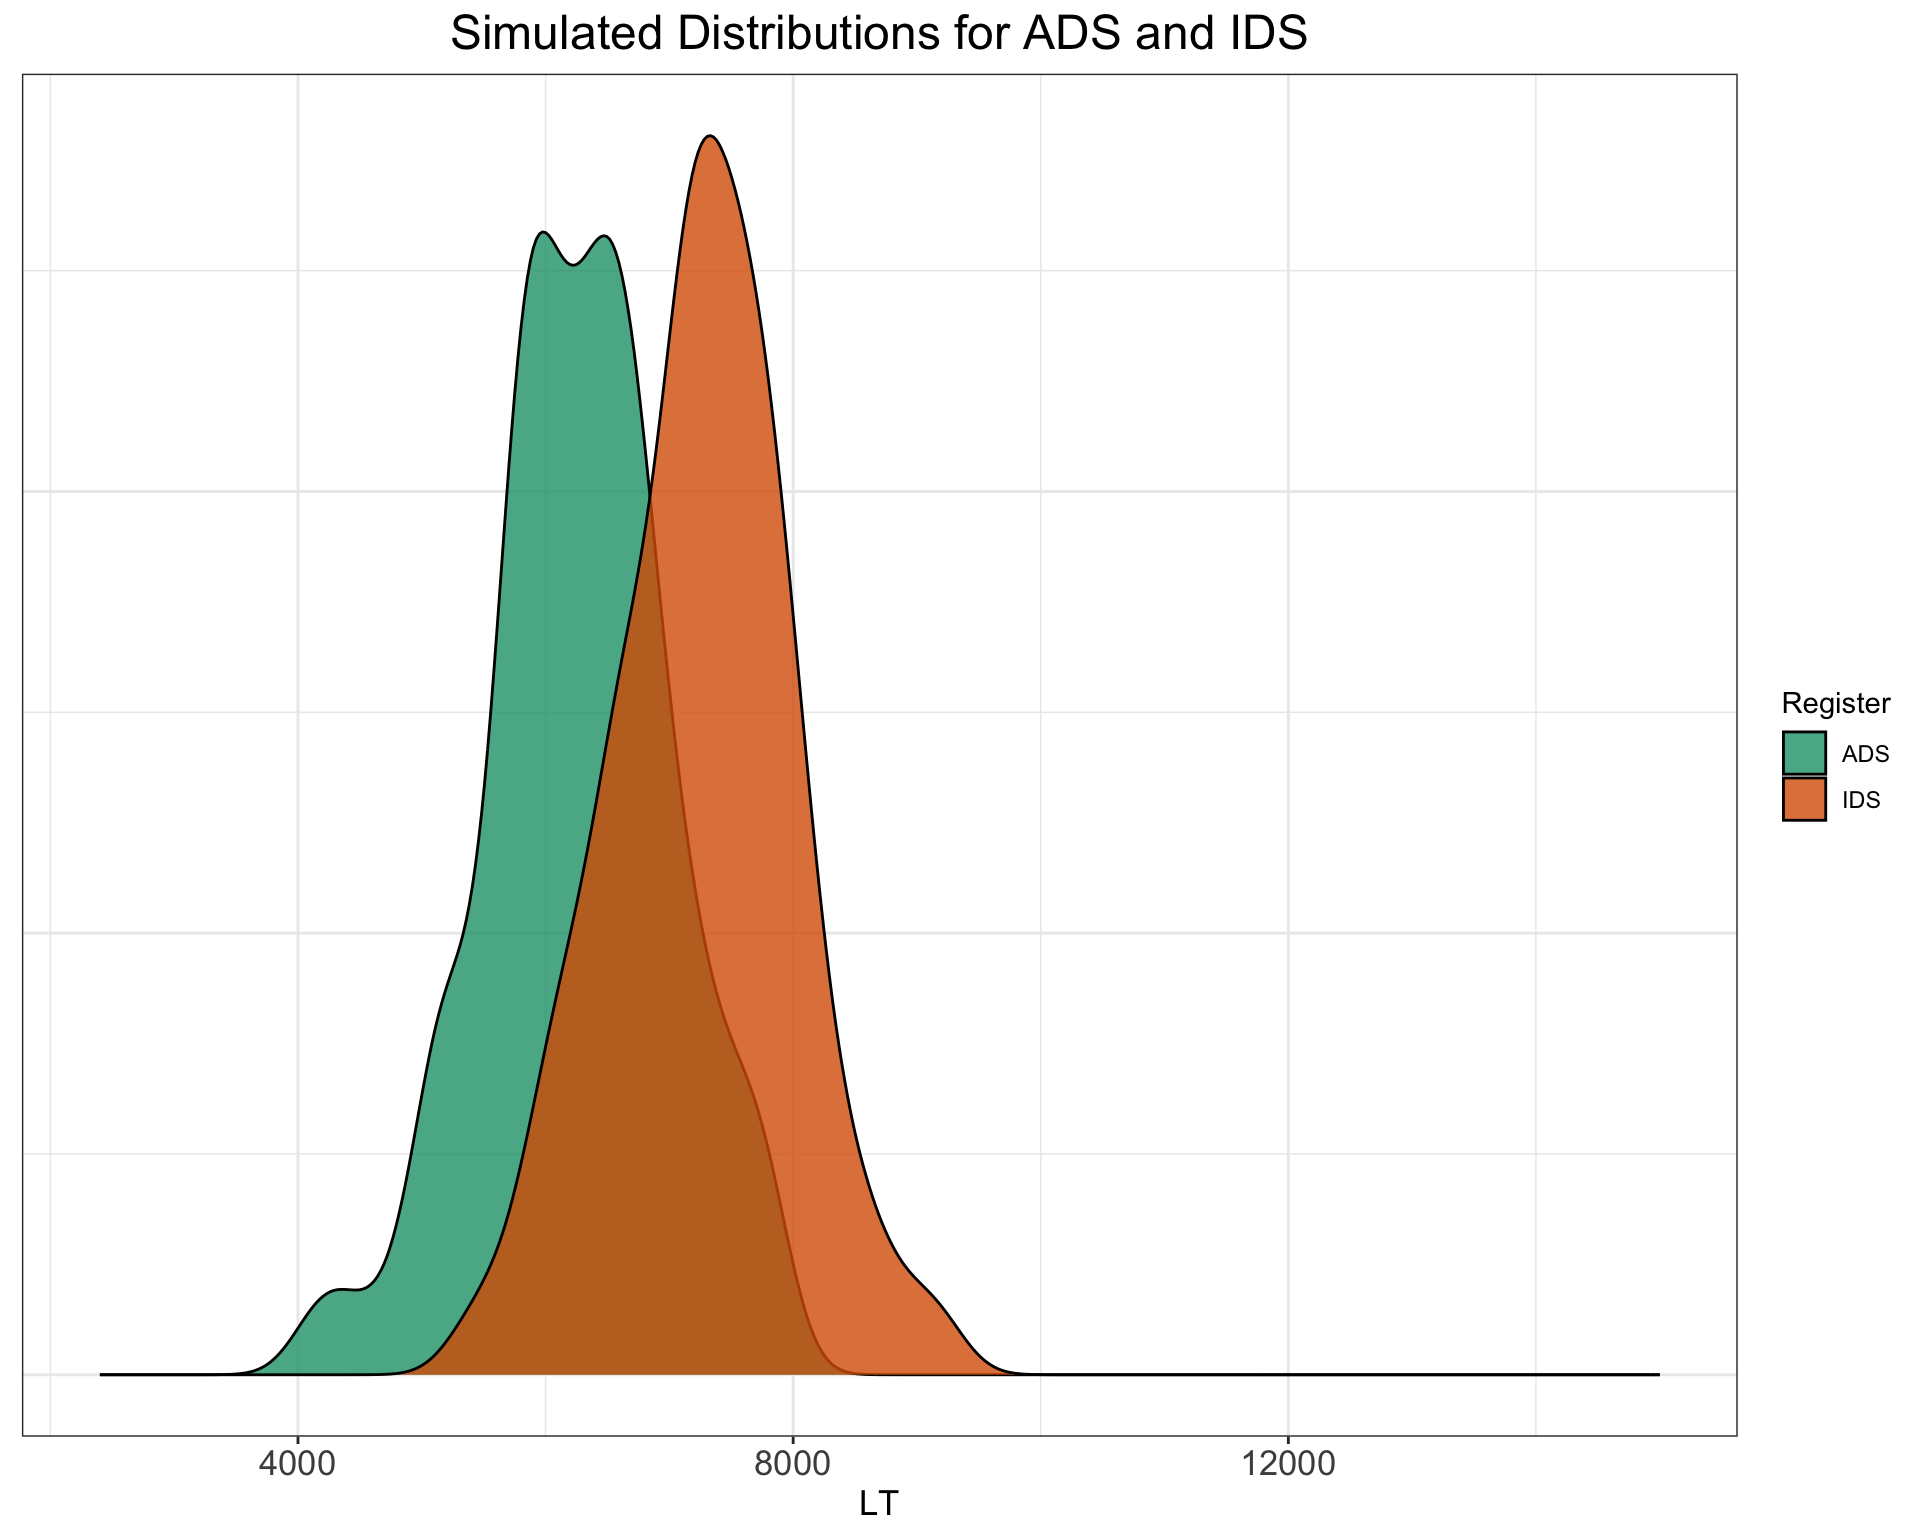
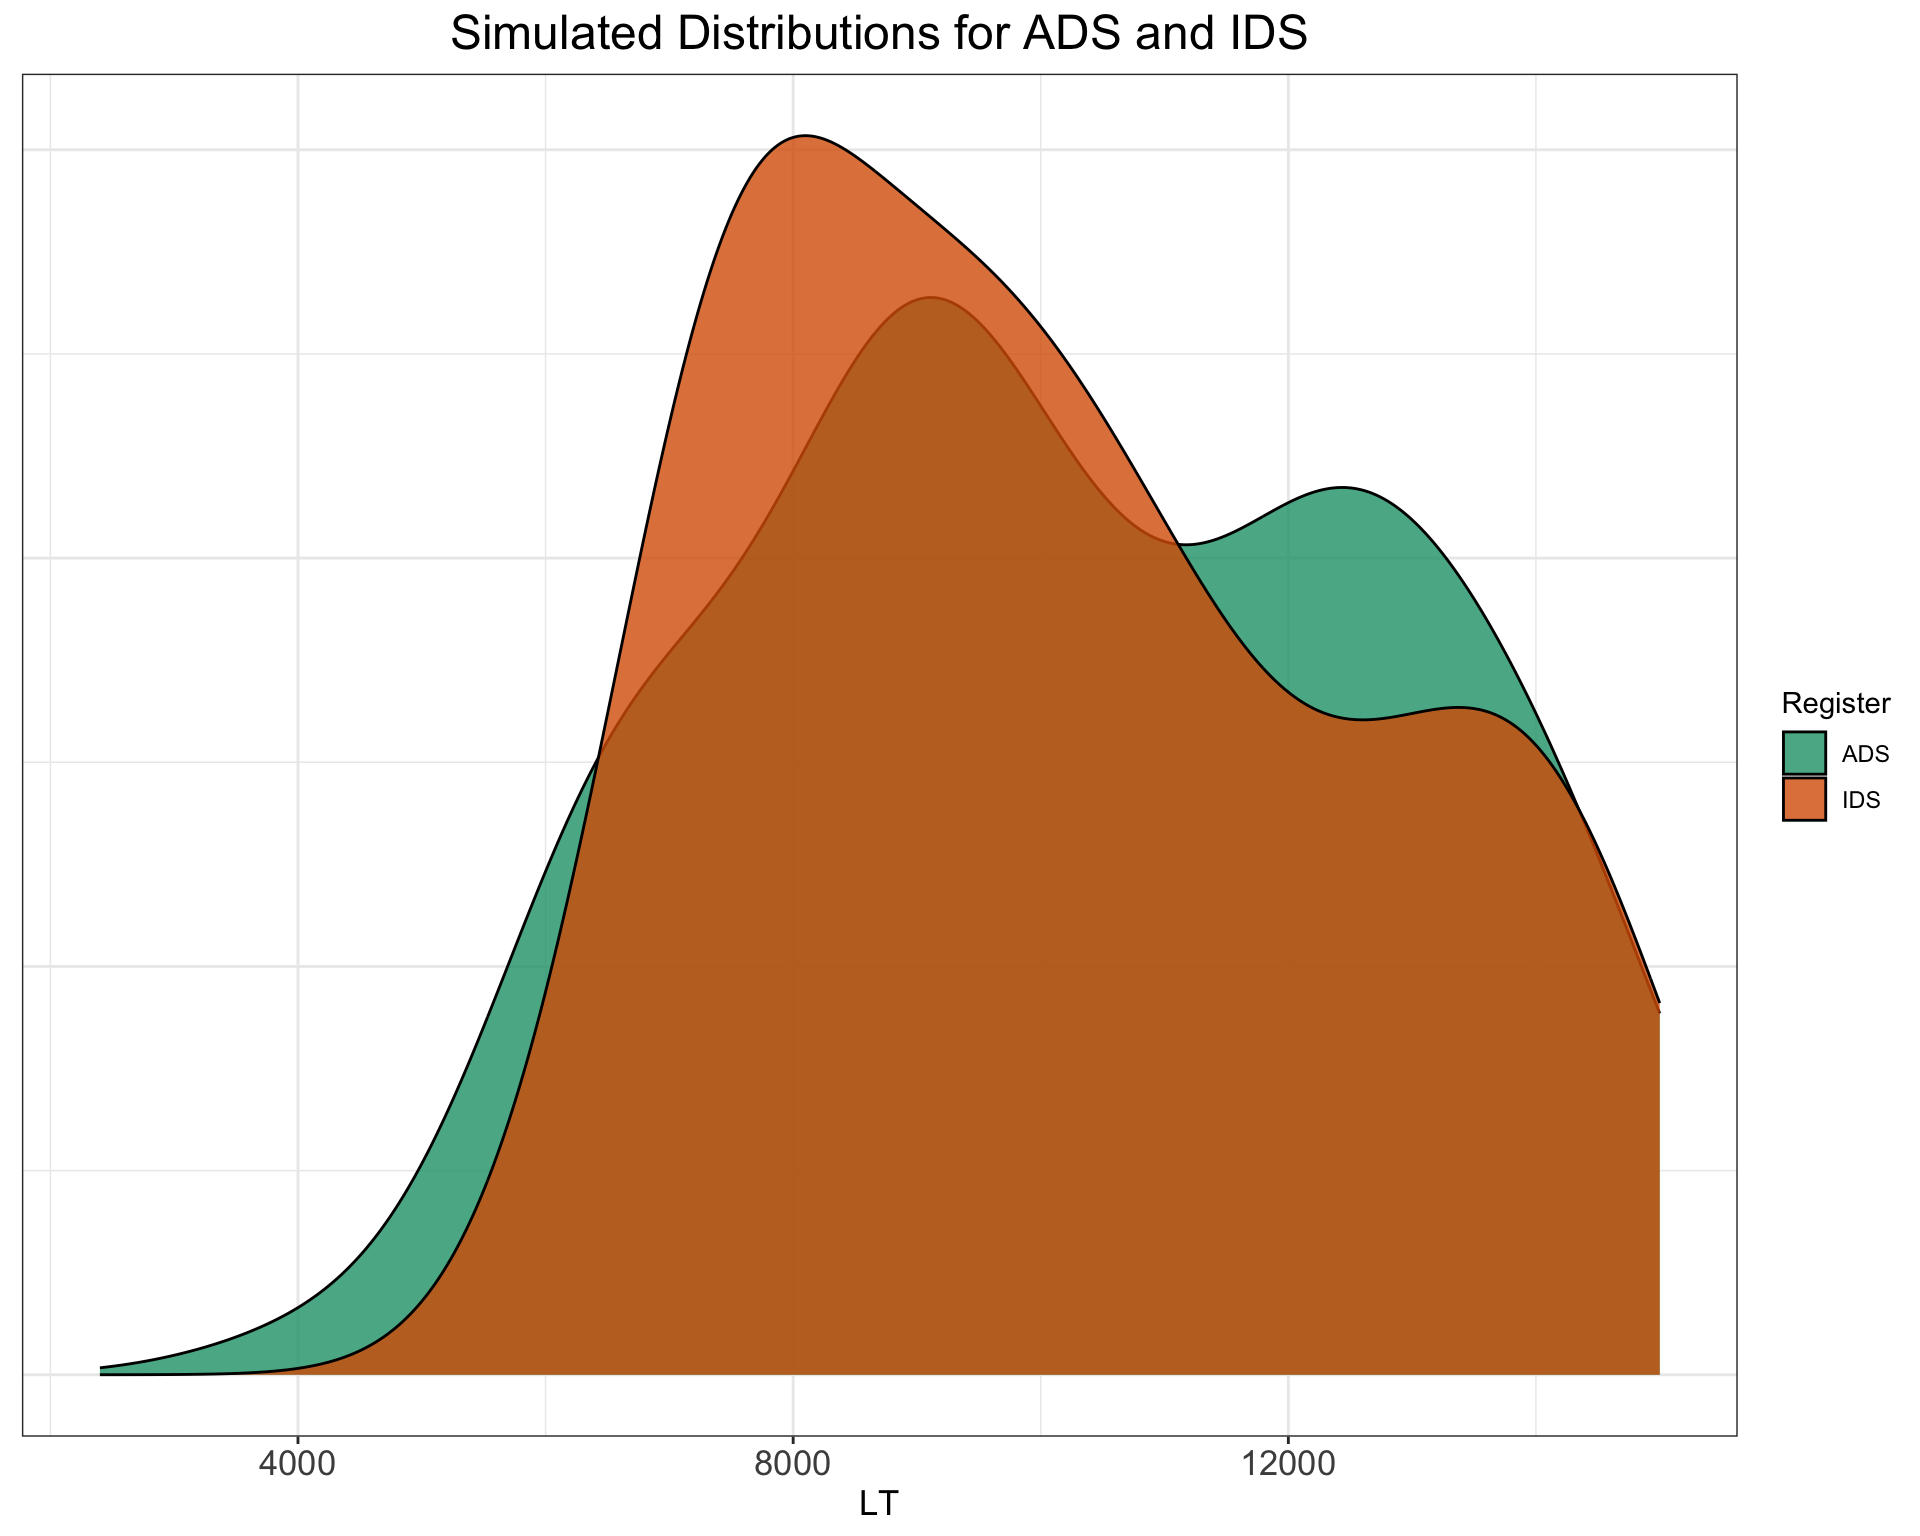
Built site for gh-pages

diff --git a/index.html b/index.html
@@ -171,7 +171,7 @@ ul.task-list li input[type="checkbox"] {
 </header>
 
 
-<p>Welcome! This website will form the basis of the 2024 ManyBabies workshop on Data Simulation &amp; Power Analysis. Before we start, I would like to emphasise that this workshop has grown out of discussion with lots of different people and is a true collaborative effort, which accords nicely with the general philosophy of ManyBabies projects. The approach to data simulation and power analysis explored here is closely associated with the data analysis team on the ManyBabies5 project (https://manybabies.org/MB5/). This series of meetings among researchers on the data analysis team was a fundamentally exploratory process being guided by a what-if mindset; a big thanks goes to Martin Zettersten, Michaela DeBolt, Jessica Kosie and George Kachergis for the fun times and interactions that shaped my approach to simulation-based power analyses.</p>
+<p>Welcome! This website will form the basis of the 2024 ManyBabies workshop on Data Simulation &amp; Power Analysis. Before we start, I would like to emphasise that this workshop has grown out of discussion with lots of different people and is a true collaborative effort, which accords nicely with the general philosophy of ManyBabies projects. The approach to data simulation and power analysis explored here is closely associated with the data analysis team on the ManyBabies5 project (https://manybabies.org/MB5/). This series of meetings among researchers on the data analysis team was a fundamentally exploratory process being guided by a what-if mindset; a big thanks goes to Martin Zettersten, Michaela DeBolt, Jessica Kosie and George Kachergis for the fun times and interactions that shaped my approach to simulation-based power analyses. All code and materials have been written by Christopher Cox at Aarhus University, and I take full responsibility for any errors!</p>
 <p>For example, we explored questions, such as: How do predictors with two or three levels impact the power to detect an effect on infant looking times? What is the optimal balance between various practical constraints (e.g., an upper bound on the number of stimulus items that infants can attend to) and statistical inference (e.g., how much of a decrease in power are we willing to accept based on the above constraints)? Can these results inform the experimental design in some way and improve chances of replicability?</p>
 <p>This workshop assumes a little literacy in R and linear mixed-effects models, but I have attempted to make these subjects as accessible as possible. If you are interested in gaining hands-on pracical experience with the code, then feel free to download the following .Rmd files with the code, so that you can get a better idea of what each code snippet does and can manipulate them according to your own needs and studies.</p>
 <p>I hope that this will be fun experience and useful exploration of data simulation, power analysis, statistical modelling and programming, and if you have any questions, big or small, feel free to contact me on chris[dot]mm[dot]cox@gmail.com.</p>

diff --git a/content/DataSimulation_01.html b/content/DataSimulation_01.html
@@ -427,7 +427,7 @@ $ e_si                 &lt;dbl&gt; -17.380195, -334.816790, -3.802378, 888.54222
 <div class="sourceCode cell-code" id="cb15"><pre class="sourceCode r code-with-copy"><code class="sourceCode r"><span id="cb15-1"><a href="#cb15-1" aria-hidden="true" tabindex="-1"></a><span class="co"># calculate the response variable</span></span>
 <span id="cb15-2"><a href="#cb15-2" aria-hidden="true" tabindex="-1"></a>SimulatedLT <span class="ot">&lt;-</span> ParameterValues <span class="sc">%&gt;%</span></span>
 <span id="cb15-3"><a href="#cb15-3" aria-hidden="true" tabindex="-1"></a>  <span class="fu">mutate</span>(<span class="at">LT =</span> mean_intercept <span class="sc">+</span> subject_intercept_sd <span class="sc">+</span> item_intercept_sd <span class="sc">+</span> (mean_slope <span class="sc">+</span> subject_slope_sd) <span class="sc">*</span> SpeechStyle <span class="sc">+</span> e_si) <span class="sc">%&gt;%</span> <span class="co">#sum together overall intercept, varying subject and item intercepts, varying subject slopes, and random error.</span></span>
-<span id="cb15-4"><a href="#cb15-4" aria-hidden="true" tabindex="-1"></a>  <span class="fu">mutate</span>(<span class="at">LT =</span> LT <span class="sc">+</span> <span class="fu">rexp</span>(<span class="fu">nrow</span>(.), <span class="at">rate =</span> <span class="fl">0.01</span>)) <span class="sc">%&gt;%</span> <span class="co">#add a long tail to the distribution to simulate exgaussian distribution of looking times</span></span>
+<span id="cb15-4"><a href="#cb15-4" aria-hidden="true" tabindex="-1"></a>  <span class="fu">mutate</span>(<span class="at">LT =</span> LT <span class="sc">+</span> <span class="fu">rexp</span>(<span class="fu">nrow</span>(.), <span class="at">rate =</span> <span class="fl">0.0001</span>)) <span class="sc">%&gt;%</span> <span class="co">#add a long tail to the distribution to simulate exgaussian distribution of looking times</span></span>
 <span id="cb15-5"><a href="#cb15-5" aria-hidden="true" tabindex="-1"></a>  dplyr<span class="sc">::</span><span class="fu">select</span>(subj_id, item_id, Register, SpeechStyle, LT)</span></code><button title="Copy to Clipboard" class="code-copy-button"><i class="bi"></i></button></pre></div>
 </div>
 <p>Let’s have a look at what the data we have generated looks like:</p>
